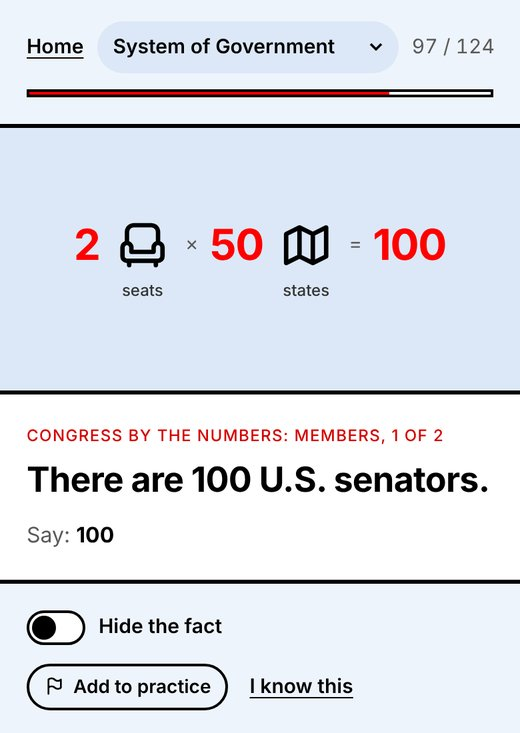
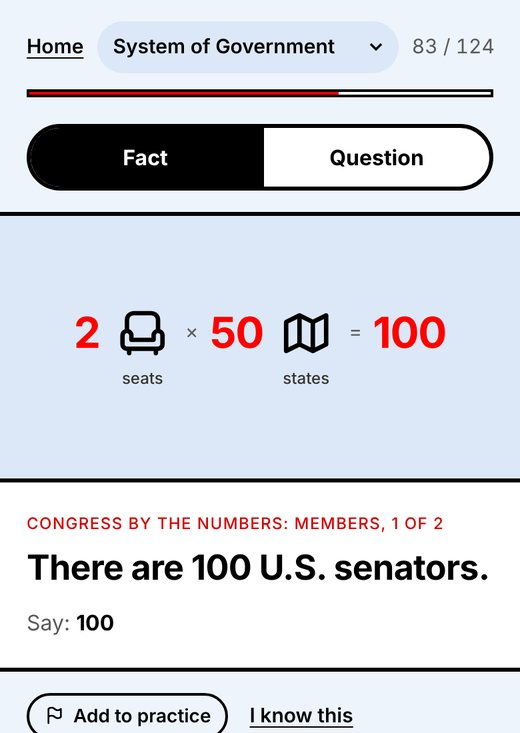
Civics page: describe Fact | Question mode, retake screenshots
Claude-Session: https://claude.ai/code/session_015WQEqSw6XqsMYnf1PRW3Gp

diff --git a/civics.html b/civics.html
@@ -54,8 +54,8 @@
 
     <div class="shots">
       <figure><img src="img/civics-cover.jpg?v=2" alt="The app's home screen: 'Learn the citizenship test as facts, not questions.'" loading="lazy"><figcaption>Facts, not questions</figcaption></figure>
-      <figure><img src="img/civics-card.jpg?v=2" alt="A study card reading 'There are 100 U.S. senators,' with icons showing 2 seats times 50 states equals 100." loading="lazy"><figcaption>Icons that spell the answer</figcaption></figure>
-      <figure><img src="img/civics-hidden.jpg?v=2" alt="The same card with the fact blurred and a 'Tap to reveal' button, leaving only the icons." loading="lazy"><figcaption>Hide the fact, recall from the icons</figcaption></figure>
+      <figure><img src="img/civics-card.jpg?v=3" alt="A study card reading 'There are 100 U.S. senators,' with icons showing 2 seats times 50 states equals 100." loading="lazy"><figcaption>Icons that spell the answer</figcaption></figure>
+      <figure><img src="img/civics-question.jpg?v=2" alt="Question mode: the officer's question How many U.S. senators are there?, with icons reading 2 seats times 50 states equals a red question mark, and a Show the answer button." loading="lazy"><figcaption>Question mode: answer like the interview</figcaption></figure>
     </div>
 
     <hr class="rule">
@@ -116,7 +116,7 @@
       <li><strong>Check:</strong> "Two senators per state" already exists elsewhere, so the cards link instead of teaching 100 as an isolated number.</li>
       <li><strong>Group:</strong> paired with 435 House members, two numbers about the same institution.</li>
       <li><strong>Icon clue:</strong> 2 seats × 50 states = 100. The icons derive the answer, so it never has to be memorized raw.</li>
-      <li><strong>Study:</strong> hide the text, say the fact from the icons, tap to check.</li>
+      <li><strong>Rehearse:</strong> switch to Question mode. The officer asks "How many U.S. senators are there?" and the icons read "2 seats × 50 states = ?". Answer out loud, then tap "Show the answer."</li>
     </ol>
 
     <hr class="rule">
@@ -136,7 +136,7 @@
 
     <div class="compare">
       <figure><p class="compare-label">September prototype</p><img src="img/civics-before-card.jpg?v=1" alt="The original prototype card for 'There are 100 U.S. senators': a generic Capitol icon and a red badge reading 100." loading="lazy"></figure>
-      <figure><p class="compare-label">Today</p><img src="img/civics-after-card.jpg?v=1" alt="Today's card for the same fact: icons reading 2 seats times 50 states equals 100." loading="lazy"></figure>
+      <figure><p class="compare-label">Today</p><img src="img/civics-after-card.jpg?v=2" alt="Today's card for the same fact: icons reading 2 seats times 50 states equals 100." loading="lazy"></figure>
       <figcaption>The same fact before and after the icon rule. The first icon names the topic; the second spells out the answer.</figcaption>
     </div>
 
@@ -182,6 +182,9 @@
         <p class="case-label">Another way in</p>
         <div class="case-body"><p>Besides studying by topic, people can study by person or theme. Any card that belongs to a set links to the rest of it in a pop-up that closes back to the same card.</p></div>
 
+        <p class="case-label">Learn, then rehearse</p>
+        <div class="case-body"><p>A Fact | Question switch sits above every card. Fact mode is for learning; Question mode shows the officer's actual question, keeps the icons as clues and hides any number or name that is the answer. It replaced a "Hide the fact" toggle that sat in a row with the card actions, where a reviewer read it as a third way to sort cards rather than a way to study. Moving it to its own switch made the difference between a study mode and a card action visible.</p></div>
+
         <p class="case-label">Found on its own</p>
         <div class="case-body"><p>A quiet credit line links back to this page, for anyone who finds the app without the portfolio around it.</p></div>
       </div>
@@ -197,7 +200,7 @@
       <div class="case-body"><p>New information sticks better when it attaches to something already known. That's why facts are grouped around familiar people, and why every person gets a name clue: a washing machine for Wash-ington gives the fact somewhere to land.</p></div>
 
       <p class="case-label">Retrieval practice</p>
-      <div class="case-body"><p>Pulling a fact out of memory strengthens it far more than rereading it. "Hide the fact" turns every card into a small test: say it from the icons, then check.</p></div>
+      <div class="case-body"><p>Pulling a fact out of memory strengthens it far more than rereading it. Question mode turns every card into the interview: the officer's question, the icon clues, and the answer hidden until you've said it. Practice that looks like the test transfers best to the test.</p></div>
 
       <p class="case-label">Telling similar things apart</p>
       <div class="case-body"><p>Facts that look alike blur together when studied separately. Seeing them side by side, like the 15th, 19th and 26th Amendments in the voting rights set, or 6-year and 2-year terms, makes the differences stand out.</p></div>
@@ -225,8 +228,8 @@
     <p>If this were taken further, these are the signals I'd use to judge whether the system works:</p>
     <ul class="perspective">
       <li><strong>Return:</strong> do people come back on their own, on three or more separate days before their interview?</li>
-      <li><strong>Hook strength:</strong> which facts end up on people's practice lists, or keep getting re-revealed? Those hooks are weak and get reworked first.</li>
-      <li><strong>Rebus test:</strong> with the text hidden, can someone new to the material say the fact from the icons?</li>
+      <li><strong>Hook strength:</strong> which facts end up on people's practice lists, or keep needing "Show the answer"? Those hooks are weak and get reworked first.</li>
+      <li><strong>Rebus test:</strong> in Question mode, can someone new to the material answer from the icons alone?</li>
       <li><strong>Accuracy:</strong> zero errors against the official list, and time-sensitive answers updated within a week of any change.</li>
     </ul>
 
